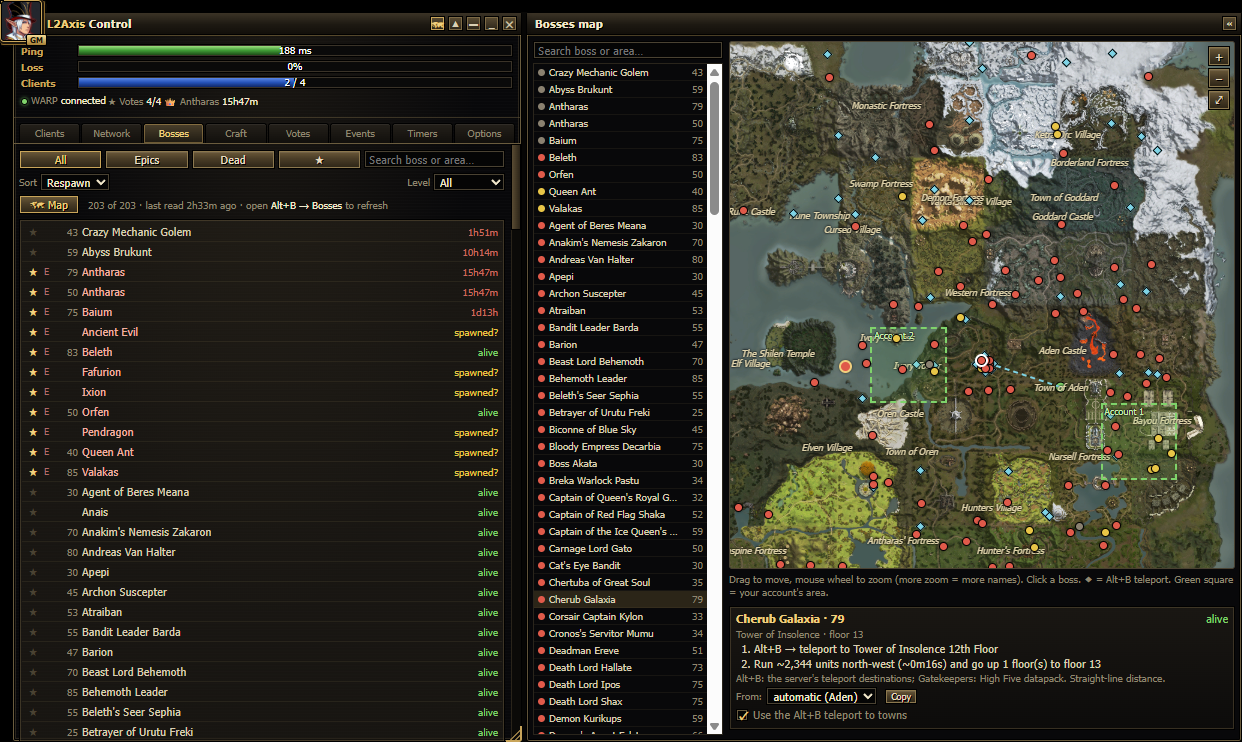
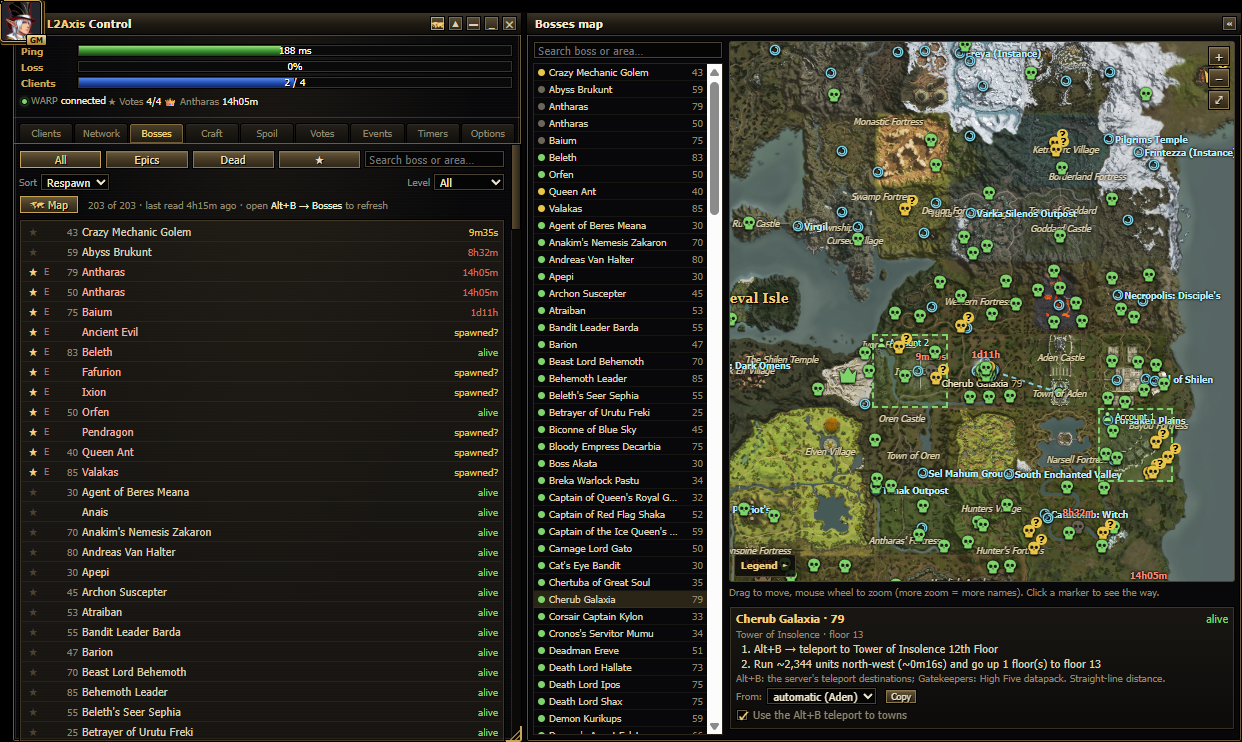
Map: calibrate on the town drawings; legend clickable
The world map was placed with 128 game units per pixel and a guessed
corner, which put names and markers up to ~25k units off (Hellbound areas
in the sea). Fitted on ten town drawings across the world: 130.6 units per
pixel on x, 132.9 on y, corner (-318767, -261066); residuals are a few
thousand units. An old legend style that blocked its clicks is removed.

diff --git a/ui.html b/ui.html
@@ -289,7 +289,6 @@
   .sb .l { color: var(--dim); width: 18px; text-align: right; }
   .sidemap { flex: 1; min-width: 0; display: flex; flex-direction: column; gap: 4px; }
   .sidemap .mapview { flex: 1; height: auto; min-height: 200px; }
-  .maplegend { position: absolute; left: 4px; bottom: 3px; right: 40px; color: #e8dcc0; text-shadow: 0 0 3px #000, 0 0 2px #000; pointer-events: none; }
   .zlbl { position: absolute; font-size: 9px; color: #f1e3b8; text-shadow: 0 0 2px #000, 0 0 3px #000, 0 0 1px #000;
           pointer-events: none; transform: translate(-50%, -50%); white-space: nowrap; font-style: italic; opacity: .9; }
   .zlbl .lv { color: #c9b27a; font-style: normal; }
@@ -2438,7 +2437,7 @@ async function loadMapInfo() {
     setTimeout(() => { if (bossMode === "map") loadMapInfo().then(() => renderBosses()); }, 3000);
   }
 }
-const toMap = (x, y) => [(x - MAPI.x0) / MAPI.scale, (y - MAPI.y0) / MAPI.scale];
+const toMap = (x, y) => [(x - MAPI.x0) / MAPI.sx, (y - MAPI.y0) / MAPI.sy];
 function fitMap() {
   // the continent: game x -110k..250k, y -200k..270k
   const v = $("#mapView"), [x1, y1] = toMap(-110000, -200000), [x2, y2] = toMap(250000, 270000);
@@ -2477,8 +2476,7 @@ function layoutMap() {
     const [px, py] = P(+el.dataset.x, +el.dataset.y);
     el.style.left = px + "px"; el.style.top = py + "px";
     if (el.classList.contains("acct")) {
-      const w = 32768 / MAPI.scale * mapT.s;
-      el.style.width = w + "px"; el.style.height = w + "px";
+      el.style.width = 32768 / MAPI.sx * mapT.s + "px"; el.style.height = 32768 / MAPI.sy * mapT.s + "px";
     }
     if (el.classList.contains("town")) el.style.display = mapT.s > 0.18 ? "" : "none";
     let show = true;
